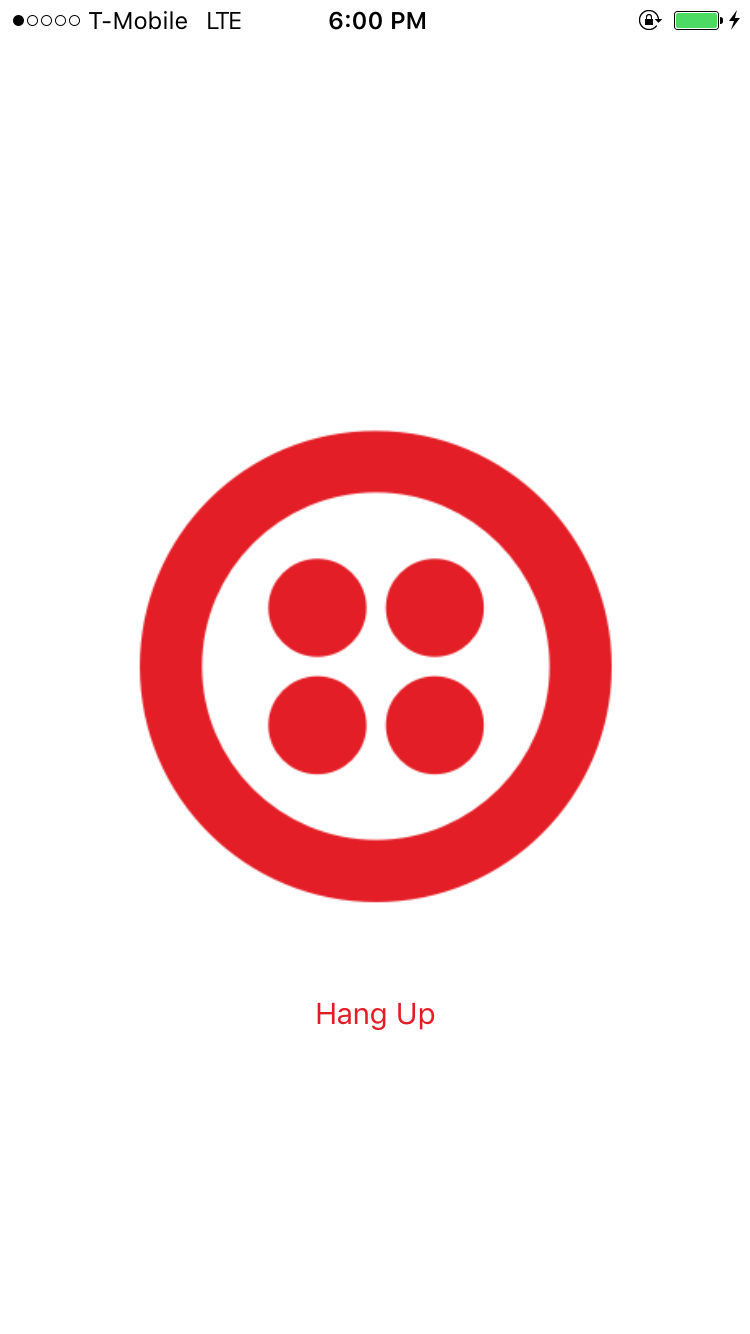
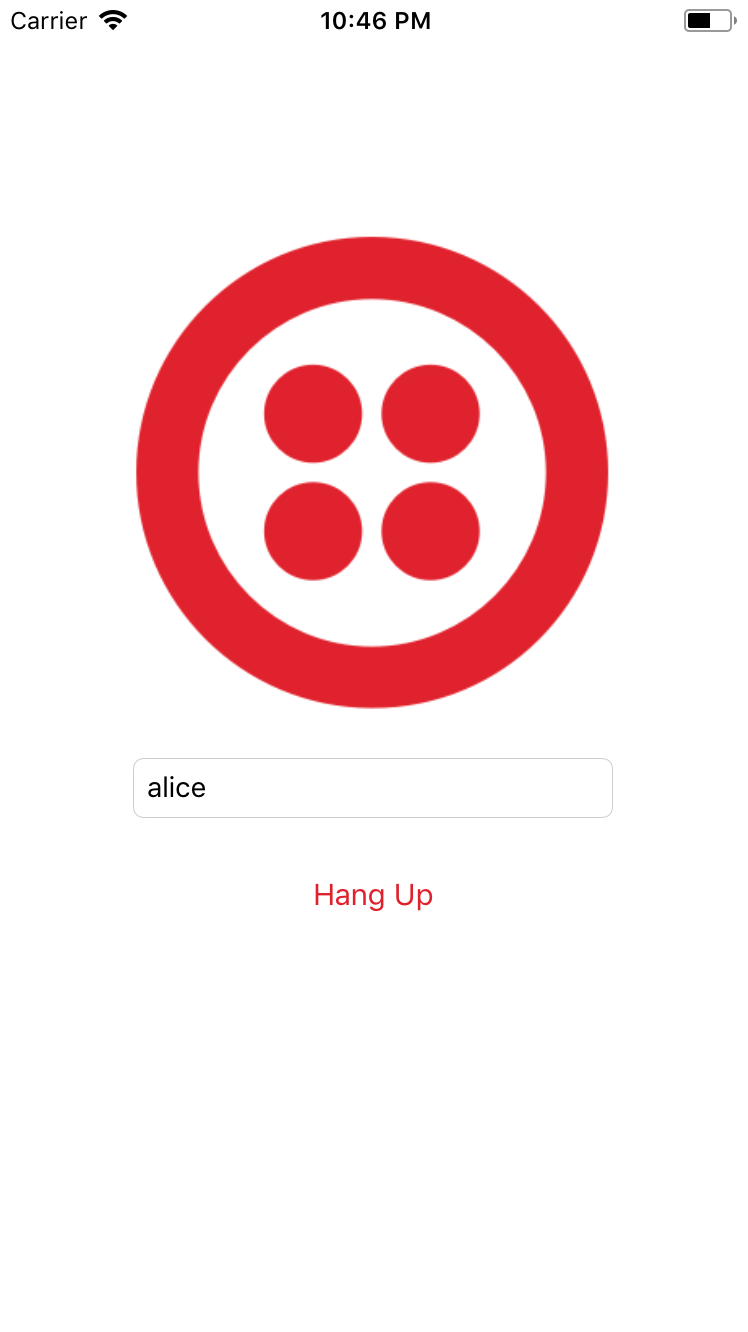
Update sample code and readme to show how to make client-to-client calls

diff --git a/SwiftVoiceQuickstart/ViewController.swift b/SwiftVoiceQuickstart/ViewController.swift
@@ -12,12 +12,14 @@ import TwilioVoice
 
 let baseURLString = <#URL TO YOUR ACCESS TOKEN SERVER#>
 let accessTokenEndpoint = "/accessToken"
+let twimlParamTo = "server_param_to"
 
-class ViewController: UIViewController, PKPushRegistryDelegate, TVONotificationDelegate, TVOCallDelegate, AVAudioPlayerDelegate {
+class ViewController: UIViewController, PKPushRegistryDelegate, TVONotificationDelegate, TVOCallDelegate, AVAudioPlayerDelegate, UITextFieldDelegate {
 
     @IBOutlet weak var placeCallButton: UIButton!
     @IBOutlet weak var iconView: UIImageView!
-
+    @IBOutlet weak var outgoingValue: UITextField!
+    
     var deviceTokenString:String?
 
     var voipRegistry:PKPushRegistry
@@ -47,6 +49,7 @@ class ViewController: UIViewController, PKPushRegistryDelegate, TVONotificationD
         super.viewDidLoad()
 
         toggleUIState(isEnabled: true)
+        outgoingValue.delegate = self
     }
 
     override func didReceiveMemoryWarning() {
@@ -76,7 +79,7 @@ class ViewController: UIViewController, PKPushRegistryDelegate, TVONotificationD
             
             playOutgoingRingtone(completion: { [weak self] in
                 if let strongSelf = self {
-                    strongSelf.call = TwilioVoice.call(accessToken, params: [:], delegate: strongSelf)
+                    strongSelf.call = TwilioVoice.call(accessToken, params: [twimlParamTo : outgoingValue.text!], delegate: strongSelf)
                     strongSelf.toggleUIState(isEnabled: false)
                     strongSelf.startSpin()
                 }
@@ -84,6 +87,11 @@ class ViewController: UIViewController, PKPushRegistryDelegate, TVONotificationD
         }
     }
 
+    // MARK: UITextFieldDelegate
+    func textFieldShouldReturn(_ textField: UITextField) -> Bool {
+        outgoingValue.resignFirstResponder()
+        return true
+    }
 
     // MARK: PKPushRegistryDelegate
     func pushRegistry(_ registry: PKPushRegistry, didUpdate credentials: PKPushCredentials, forType type: PKPushType) {

diff --git a/SwiftVoiceCallKitQuickstart/ViewController.swift b/SwiftVoiceCallKitQuickstart/ViewController.swift
@@ -13,11 +13,13 @@ import TwilioVoice
 
 let baseURLString = <#URL TO YOUR ACCESS TOKEN SERVER#>
 let accessTokenEndpoint = "/accessToken"
+let twimlParamTo = "server_param_to"
 
-class ViewController: UIViewController, PKPushRegistryDelegate, TVONotificationDelegate, TVOCallDelegate, CXProviderDelegate {
+class ViewController: UIViewController, PKPushRegistryDelegate, TVONotificationDelegate, TVOCallDelegate, CXProviderDelegate, UITextFieldDelegate {
 
     @IBOutlet weak var placeCallButton: UIButton!
     @IBOutlet weak var iconView: UIImageView!
+    @IBOutlet weak var outgoingValue: UITextField!
 
     var deviceTokenString:String?
 
@@ -66,6 +68,7 @@ class ViewController: UIViewController, PKPushRegistryDelegate, TVONotificationD
         super.viewDidLoad()
 
         toggleUIState(isEnabled: true)
+        outgoingValue.delegate = self
     }
 
     override func didReceiveMemoryWarning() {
@@ -94,6 +97,13 @@ class ViewController: UIViewController, PKPushRegistryDelegate, TVONotificationD
             
             performStartCallAction(uuid: uuid, handle: handle)
         }
+    }
+    
+    
+    // MARK: UITextFieldDelegate
+    func textFieldShouldReturn(_ textField: UITextField) -> Bool {
+        outgoingValue.resignFirstResponder()
+        return true
     }
 
 
@@ -449,7 +459,7 @@ class ViewController: UIViewController, PKPushRegistryDelegate, TVONotificationD
             return
         }
         
-        call = TwilioVoice.call(accessToken, params: [:], uuid:uuid, delegate: self)
+        call = TwilioVoice.call(accessToken, params: [twimlParamTo : outgoingValue.text!], uuid:uuid, delegate: self)
         self.callKitCompletionCallback = completionHandler
     }
     

diff --git a/README.md b/README.md
@@ -40,7 +40,7 @@ Follow the instructions in the README to get the application server up and runni
 
 ### <a name="bullet4"></a>4. Create a TwiML application
 Next, we need to create a TwiML application. A TwiML application identifies a public URL for retrieving [TwiML call control instructions](https://www.twilio.com/docs/api/twiml). When your iOS app makes a call to the Twilio cloud, Twilio will make a webhook request to this URL, your application server will respond with generated TwiML, and Twilio will execute the instructions you’ve provided.
-To create a TwiML application, go to the [TwiML app page](https://www.twilio.com/console/voice/dev-tools/twiml-apps). Create a new TwiML application, and use the public URL of your application server’s `/outgoing` endpoint as the Voice Request URL.
+To create a TwiML application, go to the [TwiML app page](https://www.twilio.com/console/voice/dev-tools/twiml-apps). Create a new TwiML application, and use the public URL of your application server’s `/placeCall` endpoint as the Voice Request URL.
 
 <img src="Images/create-twiml-app.png"/>
 
@@ -68,7 +68,7 @@ Build and run the app
 
 <img height="667px" src="Images/build-and-run.png"/>
 
-Tap the “Place Outgoing Call” button to make a call, then tap “Hang Up” to disconnect
+Use the text field to specify the number or the identity of the call receiver, then tap the “Place Outgoing Call” button to make a call. The TwiML parameters used in `TwilioVoice.call()` method should match the name used in the server. Tap “Hang Up” to disconnect
 
 <img height="667px" src="Images/hang-up.png"/>
 
